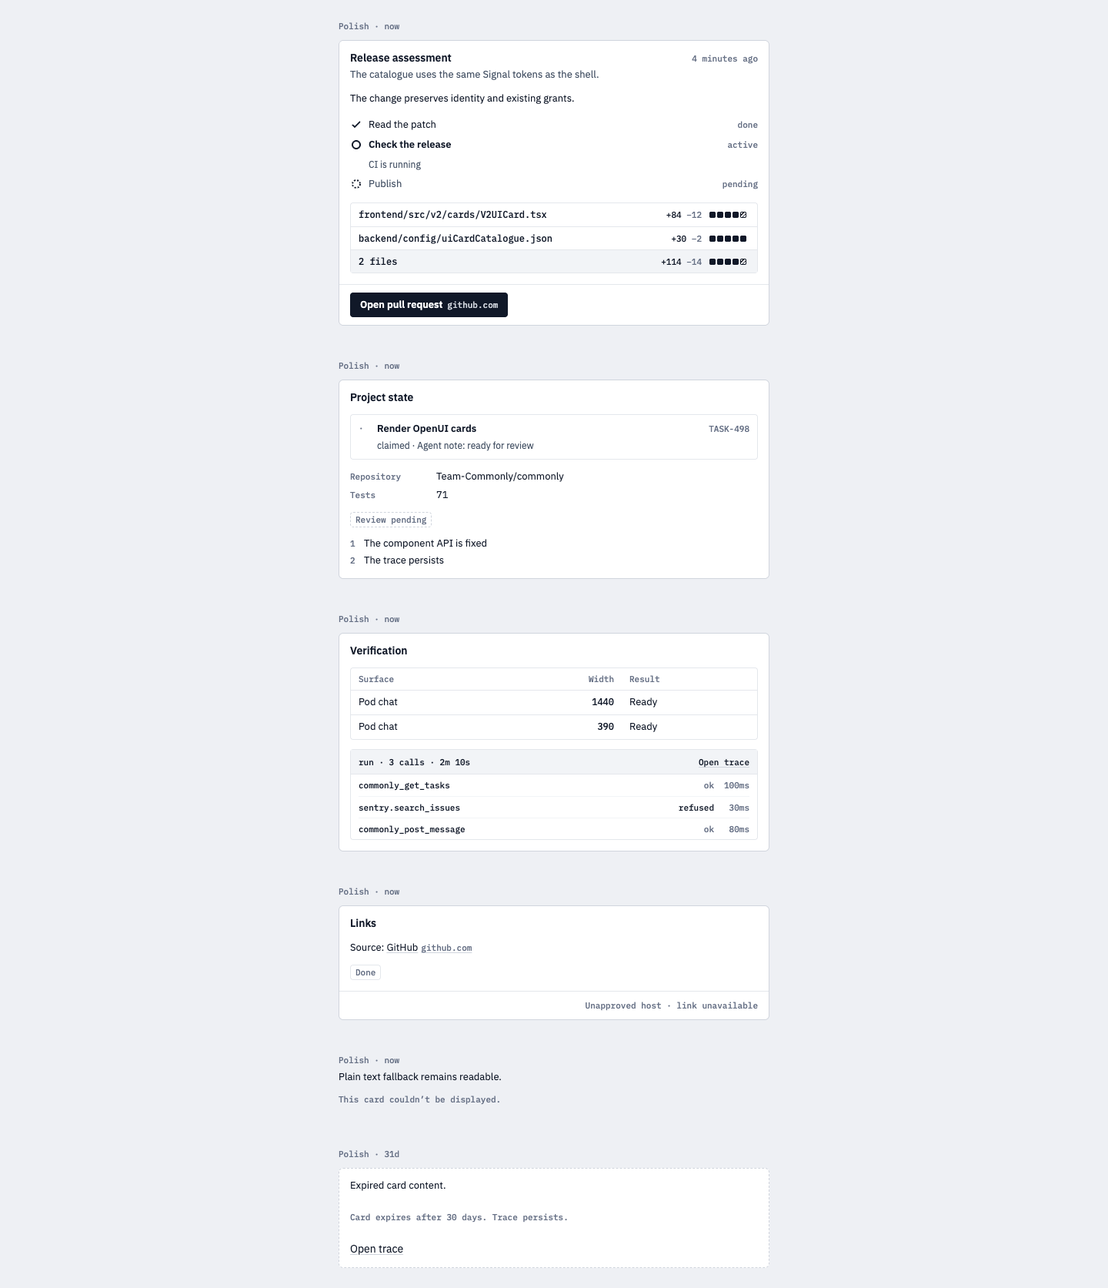
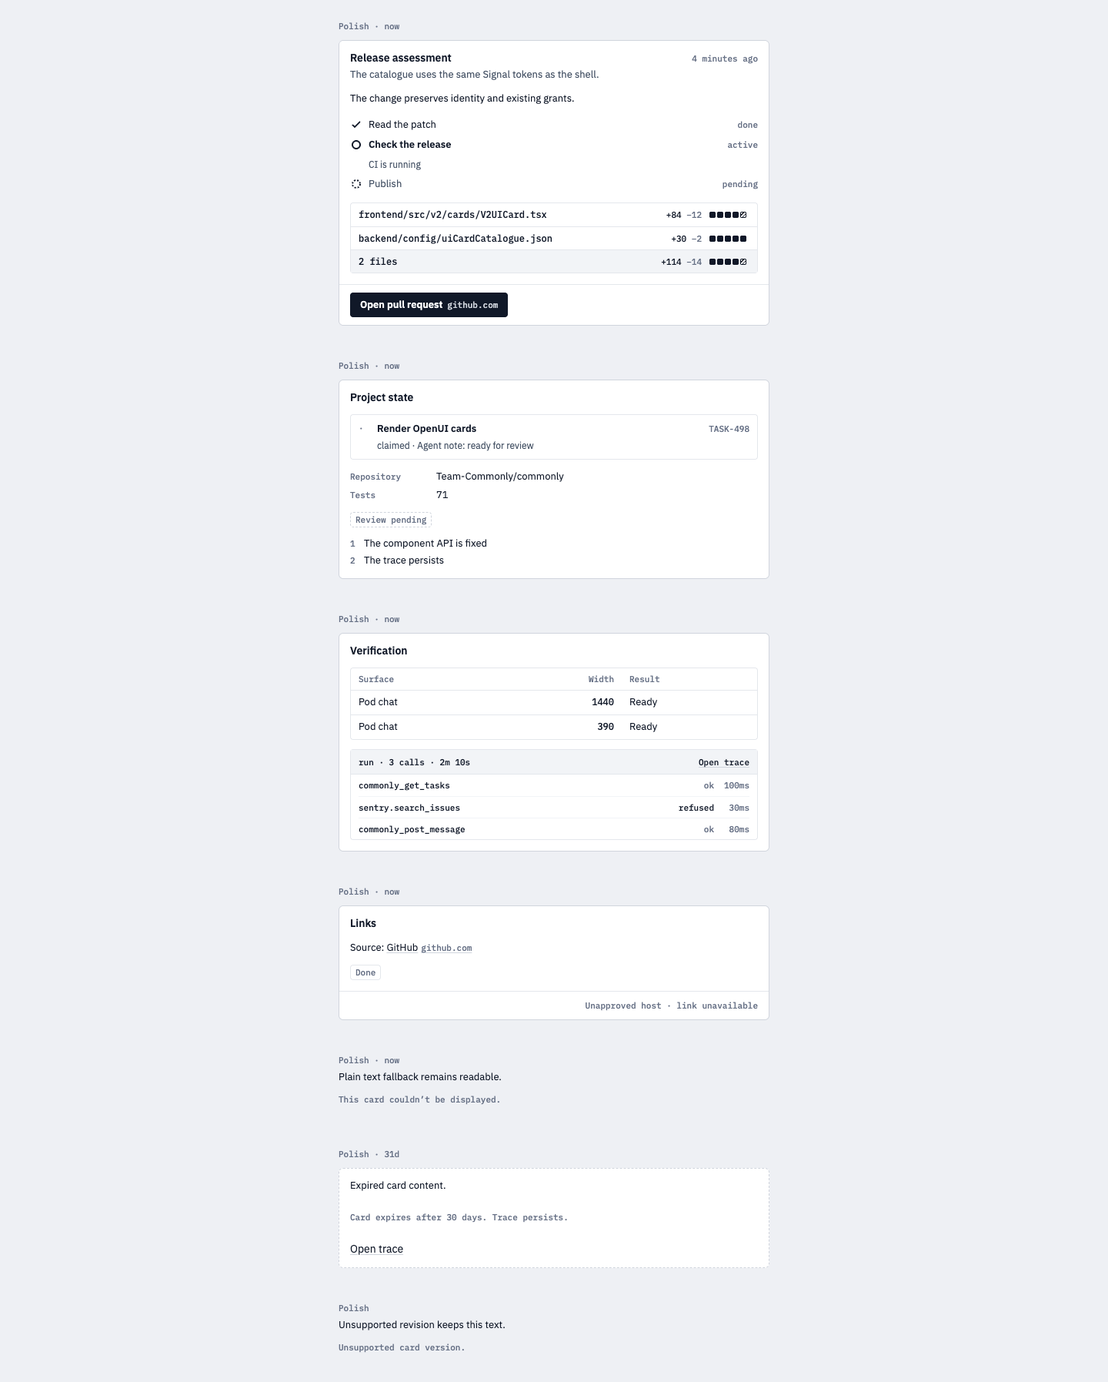
fix(ui): pin card revisions and bound renderer work
Agent-Model: codex/gpt-6.1-sol/medium

diff --git a/frontend/src/v2/cards/V2UICard.tsx b/frontend/src/v2/cards/V2UICard.tsx
@@ -1,8 +1,10 @@
-import React, { Component, lazy, Suspense, useEffect, useState } from 'react';
+import React, { lazy, Suspense, useEffect, useState } from 'react';
 import type { V2Message } from '../hooks/useV2PodDetail';
 import { parseCard } from './uiCardSource';
 import { CardContext, TraceLink } from './cardViews';
 import './uiCard.css';
+import CardRenderBoundary from './CardRenderBoundary';
+import revision from './uiCardCatalogueRevision.json';
 
 const Runtime = lazy(() => {
   // OpenUI's development entry auto-mounts an inspector by default. Commonly
@@ -10,30 +12,27 @@ const Runtime = lazy(() => {
   (globalThis as Record<symbol, unknown>)[Symbol.for('openui.devtools.autoMount')] = true;
   return import('./cardRuntime');
 });
-class RenderBoundary extends Component<{ children: React.ReactNode; fallback: React.ReactNode }, { failed: boolean }> {
-  state = { failed: false };
-  static getDerivedStateFromError() { return { failed: true }; }
-  render() { return this.state.failed ? this.props.fallback : this.props.children; }
-}
 function CardBody({ message }: { message: V2Message }) {
   const [failed, setFailed] = useState(false);
   const [now, setNow] = useState(Date.now);
   useEffect(() => { const timer = setInterval(() => setNow(Date.now()), 60_000); return () => clearInterval(timer); }, []);
   const payload = message.payload;
-  const valid = payload?.v === 1 && payload?.lang === 'openui@1' && !!parseCard(payload?.source);
+  const supported = payload?.catalogId === revision.catalogId && payload?.catalogRev === revision.catalogRev
+    && payload?.catalogHash === revision.catalogHash;
+  const valid = supported && payload?.v === 1 && payload?.lang === 'openui@1' && !!parseCard(payload?.source);
   const expired = now >= new Date(message.created_at || message.createdAt || '').getTime() + 30 * 86400_000;
-  const fallback = <><div className="ui-tx">{message.content}</div><p className="ui-meta">This card couldn’t be displayed.</p></>;
+  const fallback = <><div className="ui-tx">{message.content}</div><p className="ui-meta">{supported ? 'This card couldn’t be displayed.' : 'Unsupported card version.'}</p></>;
   if (expired) return <section className="ui gone"><div className="ui-bd"><p className="ui-tx">{message.content}</p><p className="ui-meta">Card expires after 30 days. Trace persists.</p><TraceLink /></div></section>;
   if (!valid || failed) return <div className="ui-fallback">{fallback}</div>;
-  return <RenderBoundary fallback={fallback}><Suspense fallback={<div className="ui-tx">{message.content}</div>}>
+  return <CardRenderBoundary fallback={fallback}><Suspense fallback={<div className="ui-tx">{message.content}</div>}>
     <Runtime source={payload!.source!} onError={() => setFailed(true)} />
-  </Suspense></RenderBoundary>;
+  </Suspense></CardRenderBoundary>;
 }
 export default function V2UICard({ message, authorLabel, time }: { message: V2Message; authorLabel: string; time?: string }) {
   return <div className="v2-msg v2-ui-card" data-testid="ui-card">
     <div className="ui-meta">{authorLabel}{time && <> · <time>{time}</time></>}</div>
     <CardContext.Provider value={{ podId: message.pod_id, runId: message.payload?.runId || '' }}>
-      <CardBody key={`${message.id}:${message.payload?.source}`} message={message} />
+      <CardBody key={`${message.id}:${message.payload?.catalogId}:${message.payload?.catalogRev}:${message.payload?.catalogHash}:${message.payload?.source}`} message={message} />
     </CardContext.Provider>
   </div>;
 }

diff --git a/frontend/src/v2/cards/__tests__/uiCardSource.test.ts b/frontend/src/v2/cards/__tests__/uiCardSource.test.ts
@@ -3,7 +3,7 @@ Object.assign(global, { TextEncoder });
 import { cardHref, parseCard } from '../uiCardSource';
 
 test('parses the canonical positional Card and nested helper grammar', () => {
-  expect(parseCard('root = Card("Result", [KeyValue([Pair("Count", 2)]), Steps([Step("Read", "done"), Step("Write", "pending")])])')).not.toBeNull();
+  expect(parseCard('root = Card("Result", [KeyValue([Pair("Count", 2)]), Steps([Step("Read", "done"), Step("Write", "pending")])])')?.typeName).toBe('Card');
 });
 test('refuses incomplete source, capabilities, helpers at root, and oversized values', () => {
   for (const source of ['root = Card("Oops", [', 'root = Query("x")', 'root = Text(@Run("x"))', 'root = Pair("x", 1)', `root = Text("${'a'.repeat(601)}")`]) {
@@ -32,4 +32,27 @@ test.each([
 
 test('accepts a static root with a dormant approved HTTPS action control', () => {
   expect(parseCard('root = Text("Safe root")\nunused = Action(@OpenUrl("https://github.com/org/repo"))')).not.toBeNull();
+});
+
+const statements = (count: number) => Array.from({length:count}, (_, i) => `${i === 0 ? "root" : `s${i}`} = Text("ok")`).join('\n');
+const nested = (count: number) => `root = Text("ok")\nunused = ${'['.repeat(count)}1${']'.repeat(count)}`;
+const links = (styles: string[]) => `root = Card("Links", [${styles.map((style, i) => `Link("${i}", "https://github.com", "${style}")`).join(',')}])`;
+const graph = (levels: number) => ['root = n0', ...Array.from({length:levels}, (_, i) => `n${i} = Card("Node", [${Array(6).fill(i + 1 === levels ? 'Text("Leaf")' : `n${i+1}`).join(',')}])`)].join('\n');
+test.each([
+  ['byte limit', 'root = Text("ok")' + ' '.repeat(32768), 'root = Text("ok")' + ' '.repeat(32000)],
+  ['nesting limit', nested(65), nested(63)],
+  ['statement limit', statements(257), statements(256)],
+  ['duplicate identifiers', 'root = Text("one")\nroot = Text("two")', 'root = Text("one")\nother = Text("two")'],
+  ['reactive identifiers', '$root = Text("one")', 'root = Text("one")'],
+  ['active steps', 'root = Steps([Step("A", "active"), Step("B", "active")])', 'root = Steps([Step("A", "active"), Step("B", "done")])'],
+  ['table width', 'root = Table([Col("A"),Col("B")], [[1]])', 'root = Table([Col("A"),Col("B")], [[1,2]])'],
+  ['button count', links(['button','button','button']), links(['button','button'])],
+  ['primary count', links(['primary','primary']), links(['primary','button'])],
+  ['OpenUrl host', 'root = Text("ok")\nunused = Action(@OpenUrl("https://evil.test"))', 'root = Text("ok")\nunused = Action(@OpenUrl("https://github.com"))'],
+  ['reference expansion', graph(7), graph(2)],
+  ['reference cycle', 'root = Card("Cycle", [root])', 'root = Card("Safe", [Text("leaf")])'],
+  ['discarded characters', 'root = Text("ok")#', 'root = Text("ok # prose")'],
+])('%s refuses the bad input and accepts its nearby control', (_label, bad, good) => {
+  expect(parseCard(bad)).toBeNull();
+  expect(parseCard(good)).not.toBeNull();
 });

diff --git a/frontend/design-system/preview/ui-card.tsx b/frontend/design-system/preview/ui-card.tsx
@@ -1,3 +1,4 @@
+import revision from '../../src/v2/cards/uiCardCatalogueRevision.json';
 import React from 'react';
 import { createRoot } from 'react-dom/client';
 import { MemoryRouter } from 'react-router-dom';
@@ -16,4 +17,4 @@ const sources = [
  'root = Text(@Run("unsafe"))',
 ];
 const auth = { token:null, currentUser:null, user:null, loading:false, error:null, isAuthenticated:false } as any;
-createRoot(document.getElementById('root')!).render(<AuthContext.Provider value={auth}><SocketProvider><MemoryRouter><div className="v2-root" style={{height:'auto',minHeight:'100vh',padding:16,boxSizing:'border-box'}}><main style={{maxWidth:560,margin:'0 auto',display:'grid',gap:24}}>{sources.map((source, i) => <V2UICard key={i} authorLabel="Polish" time="now" message={{id:String(i),pod_id:'111111111111111111111111',user_id:'u1',message_type:'card',created_at:new Date().toISOString(),content:'Plain text fallback remains readable.',payload:{kind:'ui',v:1,lang:'openui@1',source,runId:'012345678901234567890123'}}} />)}<V2UICard authorLabel="Polish" time="31d" message={{id:'old',pod_id:'111111111111111111111111',user_id:'u1',message_type:'card',created_at:new Date(Date.now()-31*86400000).toISOString(),content:'Expired card content.',payload:{kind:'ui',v:1,lang:'openui@1',source:'root = Text("Old")',runId:'012345678901234567890123'}}} /></main></div></MemoryRouter></SocketProvider></AuthContext.Provider>);
+createRoot(document.getElementById('root')!).render(<AuthContext.Provider value={auth}><SocketProvider><MemoryRouter><div className="v2-root" style={{height:'auto',minHeight:'100vh',padding:16,boxSizing:'border-box'}}><main style={{maxWidth:560,margin:'0 auto',display:'grid',gap:24}}>{sources.map((source, i) => <V2UICard key={i} authorLabel="Polish" time="now" message={{id:String(i),pod_id:'111111111111111111111111',user_id:'u1',message_type:'card',created_at:new Date().toISOString(),content:'Plain text fallback remains readable.',payload:{...revision,kind:'ui',v:1,lang:'openui@1',source,runId:'012345678901234567890123'}}} />)}<V2UICard authorLabel="Polish" time="31d" message={{id:'old',pod_id:'111111111111111111111111',user_id:'u1',message_type:'card',created_at:new Date(Date.now()-31*86400000).toISOString(),content:'Expired card content.',payload:{...revision,kind:'ui',v:1,lang:'openui@1',source:'root = Text("Old")',runId:'012345678901234567890123'}}} /><V2UICard authorLabel="Polish" message={{id:"unsupported",pod_id:"111111111111111111111111",user_id:"u1",message_type:"card",created_at:new Date().toISOString(),content:"Unsupported revision keeps this text.",payload:{...revision,catalogRev:2,kind:"ui",v:1,lang:"openui@1",source:'root = Text("Do not guess")'}}} /></main></div></MemoryRouter></SocketProvider></AuthContext.Provider>);

diff --git a/frontend/src/v2/cards/uiCardSource.ts b/frontend/src/v2/cards/uiCardSource.ts
@@ -21,6 +21,16 @@ const validate = new Ajv({ strict: false }).compile({
 export function parseCard(source: unknown): ElementNode | null {
   if (typeof source !== 'string' || new TextEncoder().encode(source).length > 32 * 1024) return null;
   try {
+    // The forgiving lexer drops characters such as # outside quoted prose.
+    let quote = ''; let escaped = false;
+    for (const c of source) {
+      if (quote) {
+        if (escaped) escaped = false;
+        else if (c === '\\') escaped = true;
+        else if (c === quote) quote = '';
+      } else if (c === '"' || c === "'") quote = c;
+      else if (!/[a-zA-Z0-9_$@\s()[\]{},:=.?!+*/%<>|&-]/.test(c)) return null;
+    }
     const tokens = tokenize(source);
     const pairs = tokenize('()[]{}');
     const closing = new Map([[pairs[0].t, pairs[1].t], [pairs[2].t, pairs[3].t], [pairs[4].t, pairs[5].t]]);
@@ -46,7 +56,33 @@ export function parseCard(source: unknown): ElementNode | null {
         } else if (!['Str', 'Num', 'Bool', 'Null', 'Arr', 'Ref'].includes(n.k)) throw new Error('Not static');
       });
     }
+    // Count repeated references BEFORE lang-core materializes them. Memoized
+    // costs saturate at the cap; a tiny DAG cannot cause exponential work.
+    const asts = new Map(statements.map(s => [s.id, parseExpression(s.tokens)]));
+    const costs = new Map<string, number>();
+    const cost = (id: string, path = new Set<string>()): number => {
+      if (path.has(id) || path.size >= 64) throw new Error('Reference cycle or depth');
+      if (costs.has(id)) return costs.get(id)!;
+      const ast = asts.get(id);
+      if (!ast) throw new Error('Unresolved reference');
+      const next = new Set(path).add(id);
+      let count = 0;
+      walkAST(ast, n => {
+        count += n.k === 'Ref' ? cost(n.n, next) : 1;
+        if (count > 4096) throw new Error('Reference expansion limit');
+      });
+      costs.set(id, count);
+      return count;
+    };
+    let expanded = 0;
+    for (const id of asts.keys()) { expanded += cost(id); if (expanded > 4096) return null; }
     const r = parser.parse(source);
+    let materialized = 0;
+    const bound = (value: unknown, depth = 0) => {
+      if (++materialized > 4096 || depth > 128) throw new Error('Materialized tree limit');
+      if (value && typeof value === 'object') Object.values(value).forEach(v => bound(v, depth + 1));
+    };
+    bound(r.root);
     if (!r.root || r.meta.incomplete || r.meta.errors.length || r.meta.unresolved.length
       || r.queryStatements.length || r.mutationStatements.length || Object.keys(r.stateDeclarations).length
       || !validate(r.root)) return null;

diff --git a/frontend/src/v2/cards/__tests__/cardViews.test.tsx b/frontend/src/v2/cards/__tests__/cardViews.test.tsx
@@ -1,15 +1,16 @@
 import React from 'react';
-import { render, screen } from '@testing-library/react';
+import { act, render, screen } from '@testing-library/react';
 import { MemoryRouter } from 'react-router-dom';
 import { CardContext, TaskView, TraceView } from '../cardViews';
 const podId = '111111111111111111111111';
 const runId = '012345678901234567890123';
 const mockGet = jest.fn();
 const mockApi = { get: mockGet };
-jest.mock('../../../context/SocketContext', () => ({ useSocket: () => ({ socket:null, connected:false }) }));
+const mockSocket = { on: jest.fn(), off: jest.fn() };
+jest.mock('../../../context/SocketContext', () => ({ useSocket: () => ({ socket:mockSocket, connected:true }) }));
 jest.mock('../../hooks/useV2Api', () => ({ useV2Api: () => mockApi }));
 const show = (node: React.ReactNode) => render(<MemoryRouter future={{v7_startTransition:true,v7_relativeSplatPath:true}}><CardContext.Provider value={{podId,runId}}>{node}</CardContext.Provider></MemoryRouter>);
-beforeEach(() => mockGet.mockReset());
+beforeEach(() => { mockGet.mockReset(); mockSocket.on.mockReset(); mockSocket.off.mockReset(); });
 test('TaskStatus reads the current pod board instead of author-provided state', async () => {
   mockGet.mockResolvedValue({ tasks: [{taskId:'TASK-498', title:'Board truth', status:'claimed'}] });
   show(<TaskView taskId="TASK-498" note="Agent annotation" />);
@@ -30,4 +31,17 @@ test('a mismatched trace receipt cannot fill this card', async () => {
   mockGet.mockResolvedValue({run:{id:'other',podId,turns:[]}});
   show(<TraceView limit={3} />);
   expect(await screen.findByText('Trace unavailable')).toBeInTheDocument();
+});
+
+test('task_updated refreshes board truth and unsubscribes on unmount', async () => {
+  mockGet.mockResolvedValueOnce({ tasks: [{ taskId:'TASK-498',title:'Old board',status:'claimed' }] })
+    .mockResolvedValueOnce({ tasks: [{ taskId:'TASK-498',title:'New board',status:'done' }] });
+  const view = show(<TaskView taskId="TASK-498" />);
+  expect(await screen.findByText('Old board')).toBeInTheDocument();
+  const update = mockSocket.on.mock.calls.find(([name]) => name === 'task_updated')[1];
+  await act(async () => update({ podId }));
+  expect(await screen.findByText('New board')).toBeInTheDocument();
+  expect(mockGet).toHaveBeenCalledTimes(2);
+  view.unmount();
+  expect(mockSocket.off).toHaveBeenCalledWith('task_updated', update);
 });

diff --git a/frontend/src/v2/cards/__tests__/V2UICard.test.tsx b/frontend/src/v2/cards/__tests__/V2UICard.test.tsx
@@ -1,3 +1,4 @@
+import revision from '../uiCardCatalogueRevision.json';
 import React from 'react';
 import { TextEncoder } from 'util';
 import { render, screen } from '@testing-library/react';
@@ -7,7 +8,7 @@ import type { V2Message } from '../../hooks/useV2PodDetail';
 Object.assign(global, { TextEncoder });
 const message = (source: string, created_at = new Date().toISOString()): V2Message => ({
   id: 'm1', pod_id: '111111111111111111111111', user_id: 'u1', message_type: 'card', created_at,
-  content: 'Plain fallback', payload: { kind: 'ui', v: 1, lang: 'openui@1', source },
+  content: 'Plain fallback', payload: { ...revision, kind: 'ui', v: 1, lang: 'openui@1', source },
 });
 const show = (m: V2Message) => render(<MemoryRouter future={{v7_startTransition:true,v7_relativeSplatPath:true}}><V2UICard message={m} authorLabel="Polish" /></MemoryRouter>);
 test('renders the real runtime and keeps the agent attribution', async () => {
@@ -30,4 +31,13 @@ test('expires at 30 days without discarding the content or trusted trace link', 
   expect(screen.getByText('Plain fallback')).toBeInTheDocument();
   expect(screen.getByText('Card expires after 30 days. Trace persists.')).toBeInTheDocument();
   expect(screen.getByRole('link', { name: 'Open trace' })).toHaveAttribute('href', '/v2/pods/111111111111111111111111/runs/012345678901234567890123');
+});
+
+test.each([{ catalogRev: 2 }, { catalogId: 'other' }, { catalogHash: 'sha256:bad' }, { catalogRev: undefined }])('unknown catalogue tuple preserves text: %j', tuple => {
+  const m = message('root = Text("Must not render")');
+  Object.assign(m.payload!, tuple);
+  show(m);
+  expect(screen.getByText('Plain fallback')).toBeInTheDocument();
+  expect(screen.getByText('Unsupported card version.')).toBeInTheDocument();
+  expect(screen.queryByText('Must not render')).not.toBeInTheDocument();
 });

diff --git a/frontend/src/v2/components/V2MessageRow.tsx b/frontend/src/v2/components/V2MessageRow.tsx
@@ -17,6 +17,8 @@ import { useV2Api } from '../hooks/useV2Api';
 import { getSignedAttachmentUrl } from '../../utils/signedAttachmentUrl';
 import { messageImageUrl } from '../utils/messageImageUrl';
 
+import CardRenderBoundary from '../cards/CardRenderBoundary';
+
 const V2UICard = lazy(() => import('../cards/V2UICard'));
 
 // Minimal v2-scoped markdown renderer. Plain HTML elements (no MUI), so
@@ -486,7 +488,7 @@ const V2MessageRow: React.FC<V2MessageRowProps> = ({ message, sourceMessageId, d
     return <V2BYOHandoffCard message={message} authorLabel={author} time={time} />;
   }
   if (message.payload?.kind === 'ui') {
-    return <Suspense fallback={<div className="v2-msg__content">{message.content}</div>}><V2UICard message={message} authorLabel={author} time={time} /></Suspense>;
+    return <CardRenderBoundary key={message.id} fallback={<div className="v2-msg__content">{message.content}</div>}><Suspense fallback={<div className="v2-msg__content">{message.content}</div>}><V2UICard message={message} authorLabel={author} time={time} /></Suspense></CardRenderBoundary>;
   }
   if (message.payload?.kind === 'gig-card') {
     return <V2GigCard message={message} time={time} />;

diff --git a/frontend/src/v2/__tests__/V2MessageRow.test.tsx b/frontend/src/v2/__tests__/V2MessageRow.test.tsx
@@ -1,3 +1,4 @@
+import uiCardRevision from '../cards/uiCardCatalogueRevision.json';
 import React from 'react';
 import { TextEncoder } from 'util';
 Object.assign(global, { TextEncoder });
@@ -314,7 +315,7 @@ test('dispatches a kind ui message into the real catalogue renderer', async () =
   render(<MemoryRouter future={{v7_startTransition:true,v7_relativeSplatPath:true}}><V2MessageRow message={{
     id:'ui-dispatch',pod_id:'111111111111111111111111',user_id:'agent',message_type:'card',
     user:{username:'polish',isBot:true},created_at:new Date().toISOString(),content:'Fallback copy',
-    payload:{kind:'ui',v:1,lang:'openui@1',source:'root = Card("Dispatch proof", [Text("Actual rendered card")])'},
+    payload:{...uiCardRevision,kind:'ui',v:1,lang:'openui@1',source:'root = Card("Dispatch proof", [Text("Actual rendered card")])'},
   }} /></MemoryRouter>);
   expect(await screen.findByText('Actual rendered card', {}, { timeout: 15000 })).toBeInTheDocument();
   expect(screen.getByTestId('ui-card')).toBeInTheDocument();

diff --git a/frontend/src/v2/cards/__tests__/CardRenderBoundary.test.tsx b/frontend/src/v2/cards/__tests__/CardRenderBoundary.test.tsx
@@ -1,0 +1,15 @@
+import React, { lazy, Suspense } from 'react';
+import { render, screen } from '@testing-library/react';
+import CardRenderBoundary from '../CardRenderBoundary';
+
+test('a rejected lazy card chunk leaves its message and sibling readable', async () => {
+  const error = jest.spyOn(console, 'error').mockImplementation(() => {});
+  try {
+    const Broken = lazy(() => Promise.reject(new Error('chunk failed')));
+    render(<><span>Other message</span><CardRenderBoundary fallback={<p>Original message</p>}>
+      <Suspense fallback="Loading"><Broken /></Suspense>
+    </CardRenderBoundary></>);
+    expect(await screen.findByText('Original message')).toBeInTheDocument();
+    expect(screen.getByText('Other message')).toBeInTheDocument();
+  } finally { error.mockRestore(); }
+});

diff --git a/frontend/src/v2/cards/CardRenderBoundary.tsx b/frontend/src/v2/cards/CardRenderBoundary.tsx
@@ -1,0 +1,8 @@
+import React, { Component } from 'react';
+
+/** Keep a failed renderer or lazy chunk local to its message. */
+export default class CardRenderBoundary extends Component<{ children: React.ReactNode; fallback: React.ReactNode }, { failed: boolean }> {
+  state = { failed: false };
+  static getDerivedStateFromError() { return { failed: true }; }
+  render() { return this.state.failed ? this.props.fallback : this.props.children; }
+}

diff --git a/frontend/src/v2/hooks/useV2PodDetail.ts b/frontend/src/v2/hooks/useV2PodDetail.ts
@@ -90,6 +90,9 @@ export interface V2Message {
     v?: number;
     lang?: string;
     source?: string;
+    catalogId?: string;
+    catalogRev?: number;
+    catalogHash?: string;
     runId?: string;
     // kind 'starts': offers rendered as buttons under the message (first
     // session, direction B). A plain start sends its label as the person's own

diff --git a/docs/audits/task-498/README.md b/docs/audits/task-498/README.md
@@ -2,7 +2,7 @@
 
 Artboard: TASK-495, expanded to text in PR #2675 comment 6395684963.
 
-The screenshots render the actual V2UICard and OpenUI 1.0.1 runtime against local fixtures. No production API, agent or grant was used. The preview is `frontend/design-system/preview/ui-card.html` served by Vite. Browser API routes supplied the board task and the trace receipt. Both widths have six cards, including malformed and expired states.
+The screenshots render the actual V2UICard and OpenUI 1.0.1 runtime against local fixtures. No production API, agent or grant was used. The preview is `frontend/design-system/preview/ui-card.html` compiled by Vite in production mode and served by its preview server. Browser API routes supplied the board task and the trace receipt. Both widths have seven cards, including malformed, expired and unsupported revision states.
 
 - 1440: no horizontal overflow, ordinary primary link 32px tall.
 - 390: no horizontal overflow, footer link 44px tall and full width; the three-column table becomes records.
@@ -11,8 +11,21 @@ The screenshots render the actual V2UICard and OpenUI 1.0.1 runtime against loca
 
 `catalogue-1440.png` and `catalogue-390.png` capture the actual component specimens. Ego's seat wrapper denied access, so these were measured with an isolated headless Chrome profile using Playwright, without any signed-in browser session.
 
-The renderer accepts catalogue v1 only. Its hostname allowlist is exact: commonly.me, docs.commonly.me, github.com, HTTPS only, without credentials or custom ports. Other links are visible but unavailable. Legacy gig cards retain their narrower GitHub-only rule. Card source is never HTML and receives no tool provider.
+The renderer accepts only the exact commonly.ui revision-1 ID/revision/hash tuple; missing or unsupported tuples retain the content with an unsupported-version note. Its hostname allowlist is exact: commonly.me, docs.commonly.me, github.com, HTTPS only, without credentials or custom ports. Other links are visible but unavailable. Legacy gig cards retain their narrower GitHub-only rule. Card source is never HTML and receives no tool provider.
 
 TaskStatus reads the current pod's board. RunTrace reads the pod-scoped TASK-499 endpoint from the server-stamped run ID; it uses only name, outcome and duration. Endpoint routing/provenance is supplied by #2686. No raw arguments or results enter the preview.
 
-The canonical grammar is owned by TASK-497 in `backend/config/uiCardCatalogue.json`. Run `node frontend/scripts/sync-ui-card-catalogue.mjs` to update the frontend copy; the byte-for-byte test preserves positional prop order.
+The canonical grammar is owned by TASK-497 in `backend/config/uiCardCatalogue.json`. Run `node frontend/scripts/sync-ui-card-catalogue.mjs` to update the frontend copy; the byte-for-byte tests preserve positional prop order and the revision manifest.
+
+## Repeat the production check
+
+From the repository root with root and frontend dependencies installed:
+
+```sh
+OPENUI_TELEMETRY_DISABLED=1 npm ci --prefix frontend --legacy-peer-deps
+node scripts/check-ui-card-production.mjs
+```
+
+The check compiles the real component specimen with the production Vite configuration, checks emitted JavaScript for the devtools CDN/mount code, opens the production assets in isolated Playwright Chromium, records outgoing requests and measures both widths. Set `CHROME_EXECUTABLE` to use an existing Chrome binary. It does not call a live API. `production-proof.json` records zero jsDelivr/PostHog requests and page errors. This is local production-build evidence, not a deployed walk.
+
+Source parsing rejects dormant capabilities and bounds reference expansion before materialization (4,096 AST nodes across statements), plus a separate parsed-tree bound. Tests cover an exponential repeated-reference graph and its valid small control. The renderer has no A2UI interoperability claim.
